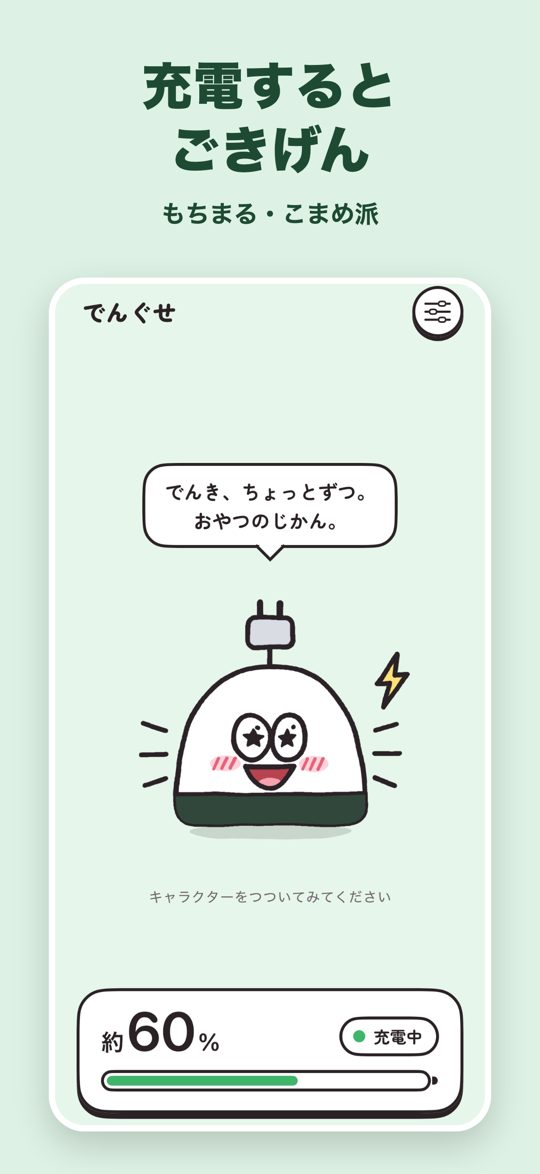
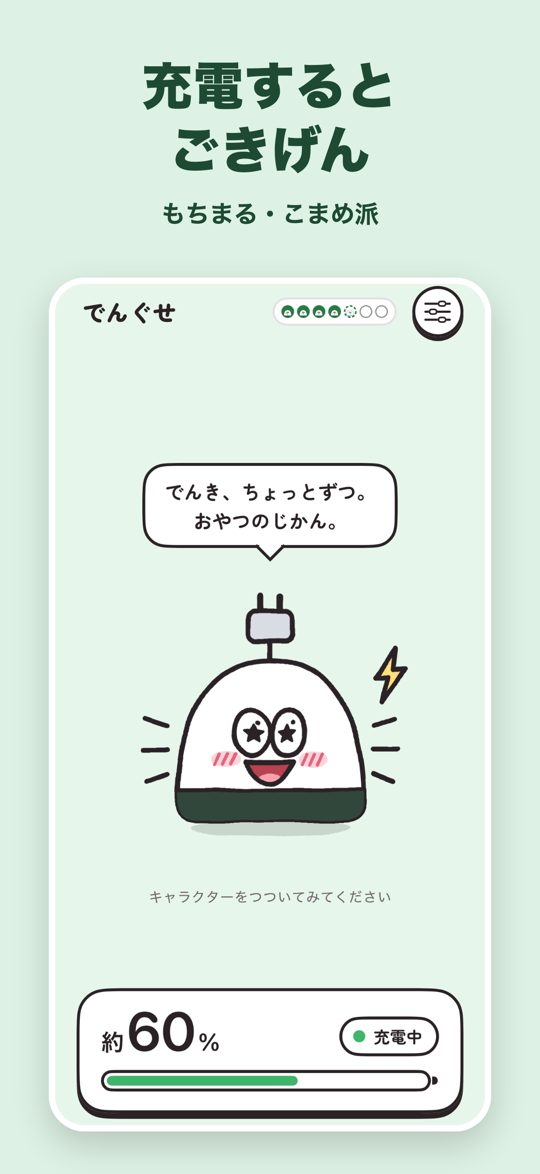
でんぐせのページを版 1.4 の内容に更新（今週のスタンプ）
紹介・サポート・プライバシーポリシーの本文と、紹介ページの画像を差し替え。
プライバシーポリシーの改定日は 2026年11月17日。

Changed region(s): [[0.2667, 0.4906, 0.7704, 0.7053], [0.5037, 0.2453, 0.7407, 0.276]]

diff --git a/docs/denguse/support.html b/docs/denguse/support.html
@@ -15,6 +15,20 @@
 <h1>でんぐせ サポート</h1>
 <p class="lead">でんぐせ（旧名 ChargeFace）は、電池の残量と充電の状態でキャラクターの表情が変わり、充電のくせで性格と見た目が変わるアプリです。</p>
 
+<h2>「今週のスタンプ」とは何ですか</h2>
+<p>バージョン 1.4 から、ウィジェット・通知・アプリの画面に、今週の 7 マス（月曜から日曜）が出るようになりました。電池を守れた日に、キャラクターのスタンプがつきます。決まりは次のとおりで、アプリの画面の上部の 7 マスを押すと開く「今週のスタンプ」の画面でも確かめられます。</p>
+<ul>
+<li>×：残量が、アプリの設定の「残量が20%を下回ったとき」（数字は設定した値）の残量を下回ってから 180 分、充電しないと、その日のマスが × になります。夜の 23 時から朝の 7 時までは数えません。通知の残量を上げたときは、上げた時刻から 180 分を数えます。</li>
+<li>△：昼間（7 時から 23 時まで）に、100% のまま 6 時間つないでいると、その日のマスが △ になります。充電の上限（80% など）を設定している間は、つきません。</li>
+<li>取り消し：× と △ は、ついた日の翌日の 24 時まで、週に 1 回だけ、「今週のスタンプ」の画面のボタンで取り消せます。取り消した日は、スタンプになります。</li>
+<li>王冠：月曜から日曜まで 7 マスそろうと、次の月曜の朝 7 時以降に、キャラクターが 8 時間、王冠をかぶります。月曜のうちにアプリを開くと、確実にかぶります。</li>
+</ul>
+<p>月曜には、7 マスが空に戻ります。使い始めた日より前のマスは、小さな点になり、数えません（使い始めた週は、7 マスそろいません）。ウィジェットと通知に出る「×まで90分（22:00）」は、× がつくまでの残り時間と、期限の時刻です。</p>
+
+<h2>充電したのに「？」や × が出るとき</h2>
+<p>iOS では、アプリが動いていない間に充電を知る仕組みがありません。そのため、期限を過ぎても、アプリかウィジェットが次に動くまでは、その日のマスが「？」（確認中）になります。次に動いたときに、充電中か、残量が 10% 以上増えていれば、スタンプのままです。× がつくのは、期限を過ぎたあとも充電されていないと確かめられたときだけです。アプリを開くと、すぐに確かめます。</p>
+<p>充電の跡が記録に残らなかったとき（短い時間だけ充電したときなど）は、充電したのに × がつくことがあります。そのときは、「今週のスタンプ」の画面で取り消せます（週に 1 回）。</p>
+
 <h2>キャラクターの見た目が変わったのはなぜですか</h2>
 <p>バージョン 1.3 から、充電のくせと充電の回数で、キャラクターの見た目が変わるようになりました。変わったことを知らせる表示はありません。見た目の変化は、アプリの画面・ウィジェット・通知の絵に出ます。</p>
 <p>性格が決まると、キャラクターが小物を身に着けます。性格が変わると、小物も替わります。性格と小物の組み合わせは、次のとおりです。</p>
@@ -34,10 +48,10 @@
 <p>バージョン 1.2 で、充電のくせでキャラクターの性格が変わる仕組みを加えたためです。名前の「でんぐせ」は、電池とくせを合わせた言葉です。中身は同じアプリで、設定やキャラクターはそのまま引き継がれます。</p>
 
 <h2>ウィジェットに残量の数字が出なくなったのはなぜですか</h2>
-<p>iOS がアプリに伝える残量は 5% 単位です。また、ウィジェットは遅れて更新されます。そのため、ウィジェットの数字が、ステータスバーの値とずれて見えることがありました。そこで、バージョン 1.2 から、ウィジェットには残量の数字を出さず、キャラクターの表情や、せりふ・ひとこと（どれが出るかは、ウィジェットの大きさによって異なります）で電池のようすを伝えるようにしました。残量の数字は、アプリの画面で見られます（5% 単位のため、「約85%」のように表示します）。残量低下の通知にも出ることがあります。最も正確な値は、ステータスバーで確かめられます。</p>
+<p>iOS がアプリに伝える残量は 5% 単位です。また、ウィジェットは遅れて更新されます。そのため、ウィジェットの数字が、ステータスバーの値とずれて見えることがありました。そこで、バージョン 1.2 から、ウィジェットには残量の数字を出さず、キャラクターの表情や、せりふ・ひとこと（どれが出るかは、ウィジェットの大きさによって異なります）で電池のようすを伝えるようにしました。残量の数字は、アプリの画面で見られます（5% 単位のため、「約85%」のように表示します）。残量低下の通知にも出ることがあります。最も正確な値は、ステータスバーで確かめられます。バージョン 1.4 のウィジェットに出る数字は、× がつくまでの残り時間（分）と期限の時刻、今週のスタンプの数です。電池の残量ではありません。</p>
 
 <h2>ウィジェットの表情がすぐに変わらないとき</h2>
-<p>iOS では、アプリが動いていない間に電池の変化を受け取る仕組みがありません。ウィジェットは、iOS がウィジェットを更新するときに電池の残量を読み直します。更新の回数は iOS が制限しているため、表情が追いつくまで通常 1 時間ほどかかり、それより遅れることもあります。アプリを開くと、すぐに最新の状態になります。</p>
+<p>iOS では、アプリが動いていない間に電池の変化を受け取る仕組みがありません。ウィジェットは、iOS がウィジェットを更新するときに電池の残量を読み直します。更新の回数は iOS が制限しているため、表情が追いつくまで通常 1 時間ほどかかり、それより遅れることもあります。アプリを開くと、すぐに最新の状態になります。バージョン 1.4 の残り時間の数字は、iOS 18 以降では 1 分ごとに減ります。iOS 17 では、ウィジェットが更新されたときの値のままです。</p>
 
 <h2>性格が決まらないとき（小物が付かないとき）</h2>
 <p>性格は、直近 14 日のうち 3 日分の充電の記録がそろったあと、次にアプリを開いたときなどに決まります。それまでは、キャラクターに小物が付きません。充電の記録は、アプリが動いたときと、ウィジェットが更新されるときに取ります。ホーム画面かロック画面にウィジェットを置いておくと、記録を取る機会が増えます。</p>
@@ -47,8 +61,9 @@
 <p>残量低下の通知は、アプリが読み取る残量が設定の値を下回ったとき（20% なら「約15%」のとき）に出します。そのため、通知が届くのは、ステータスバーの値が設定の値を少し下回ってからになることがあります。</p>
 
 <h2>通知が遅れて届くのはなぜですか</h2>
-<p>iOS では、アプリが動いていない間に電池の変化を受け取る仕組みがありません。そのため、アプリは、iOS がアプリにときどき与える実行の機会にだけ、通知を出すかどうかを判定します。この機会には、バックグラウンド更新と、iPhone が電源につながっている間だけ動く処理があります。判定の対象は、充電開始・満充電・残量低下の通知と、念押しの通知（残量低下のあとに最大 3 回届く通知）です。機会がいつ来るかは iOS が決めるため、通知は数十分から数時間遅れて届くことがあります。</p>
-<p>夜（23 時〜翌朝 5 時）に遅れて届く充電開始・満充電の通知と、夜に届く念押しの通知は、音もバナーも出さず、通知センターにだけ入ります。</p>
+<p>iOS では、アプリが動いていない間に電池の変化を受け取る仕組みがありません。そのため、アプリは、iOS がアプリにときどき与える実行の機会にだけ、通知を出すかどうかを判定します。この機会には、バックグラウンド更新と、iPhone が電源につながっている間だけ動く処理があります。判定の対象は、残量低下の通知と、念押しの通知（残量低下のあとに届く通知。バージョン 1.4 では最大 2 回、バージョン 1.3 までは最大 3 回）、今週のスタンプの結果の通知（バージョン 1.3 までは、充電開始・満充電の通知）です。機会がいつ来るかは iOS が決めるため、通知は数十分から数時間遅れて届くことがあります。</p>
+<p>バージョン 1.4 の念押しの通知は、残量低下の通知の 30 分後と 90 分後に届きます。残量低下の通知のあとにアプリを開いていないときは、90 分後の代わりに、期限の 30 分前に届きます。</p>
+<p>バージョン 1.4 では、夜の 23 時から朝の 7 時までは、× がつくまでの時間を数えず、念押しの通知と結果の通知を届けません（残量低下の最初の通知は、夜でも届きます）。結果の通知は、朝になってから届きます。バージョン 1.3 までは、夜（23 時〜翌朝 5 時）に遅れて届く充電開始・満充電の通知と、夜に届く念押しの通知は、音もバナーも出さず、通知センターにだけ入ります。</p>
 <p>アプリが充電の開始を知るのも、次に動いたときです。そのため、充電を始めたあとに、念押しの通知が届くことがあります。残量低下の通知を長押しして出る「充電しました」（バージョン 1.2 までは「充電した」）を押すと、残りの念押しの通知を止められます。</p>
 
 <h2 id="low">残量低下の通知が届かないとき</h2>
@@ -59,9 +74,15 @@
 <li>「Appのバックグラウンド更新」が制限されている：スクリーンタイムの制限や、iPhone の管理（学校・会社など）で、切り替えられないことがあります。制限を設定した人や、iPhone を管理している人にご確認ください。</li>
 </ul>
 
-<h2>充電開始・満充電の通知が届かないとき</h2>
-<p>設定 App で「でんぐせ」の通知が許可されていることと、アプリの設定で「充電を開始したとき」（バージョン 1.2 までは「充電を始めたとき」）と「満充電になったとき」がオンになっていることをご確認ください。アプリは、この 2 つの通知を出すかどうかを、iOS がアプリにときどき与える実行の機会に判定します。そのため、通知が数十分から数時間遅れて届くことがあります。その機会が来る前に充電器を外すと、届きません。「Appのバックグラウンド更新」がオフの間と、低電力モードの間は、その機会がほぼ無くなるため、ほとんど届きません（直し方は、上の<a href="#low">「残量低下の通知が届かないとき」</a>と同じです）。</p>
-<p>充電の上限（80% など）を設定しているときは、100% にならないため、そのままでは満充電の通知が届きません。バージョン 1.3 から、アプリの設定の「通知」にある「満充電とみなす残量」を、充電の上限と同じ値に合わせると、上限に達したときに満充電の通知が届きます。</p>
+<h2>充電開始・満充電の通知が届かなくなったのはなぜですか</h2>
+<p>バージョン 1.4 で、充電を始めるたびの通知と、満充電になるたびの通知をやめ、次の 2 つに置き換えました。アプリの設定の項目の名前も変わりました。</p>
+<ul>
+<li>「猶予中に充電したとき」（バージョン 1.3 までは「充電を開始したとき」）：× がつくまでの猶予の間に充電したときに、間に合ったことを知らせます。</li>
+<li>「満充電のまま放置したとき」（バージョン 1.3 までは「満充電になったとき」）：100% のまま 5 時間つないでいるときに △ の予告を、6 時間たって △ がついたときにそのことを知らせます。</li>
+</ul>
+<p>この 2 つの通知も、iOS がアプリにときどき与える実行の機会に判定するため、数十分から数時間遅れて届くことがあります。「Appのバックグラウンド更新」がオフの間と、低電力モードの間は、その機会がほぼ無くなるため、ほとんど届きません（直し方は、上の<a href="#low">「残量低下の通知が届かないとき」</a>と同じです）。</p>
+<p>バージョン 1.3 までは、アプリの設定で「充電を開始したとき」（バージョン 1.2 までは「充電を始めたとき」）と「満充電になったとき」がオンのときに、充電開始・満充電の通知が届きます。実行の機会が来る前に充電器を外すと、届きません。</p>
+<p>充電の上限（80% など）を設定しているときは、アプリの設定の「通知」にある「満充電とみなす残量」を、充電の上限と同じ値に合わせると、上限に達したときに満充電の表情になります（バージョン 1.3 では、満充電の通知も届きます）。</p>
 
 <h2>集中モードや時刻指定要約で通知が遅れるとき</h2>
 <p>集中モードの間や、時刻指定要約を使っているときは、通知が遅れて届くことがあります。集中モードの間も受け取りたいときは、設定 App の「集中モード」で、「でんぐせ」を、通知を許可する App に加えてください。時刻指定要約を使っていて、通知を要約にまとめずにすぐ受け取りたいときは、設定 App の「通知」→「時刻指定要約」で「でんぐせ」をオフにしてください。</p>

diff --git a/docs/denguse/index.html b/docs/denguse/index.html
@@ -4,7 +4,7 @@
 <meta charset="utf-8">
 <meta name="viewport" content="width=device-width, initial-scale=1">
 <title>でんぐせ - 性格が変わるバッテリーウィジェット</title>
-<meta name="description" content="でんぐせ（旧名 ChargeFace）は、iPhone の電池の残量と充電の状態でキャラクターの表情が変わり、充電のくせで性格と見た目も変わるアプリです。ホーム画面・ロック画面・スタンバイのウィジェットと、満充電・残量低下のお知らせ（iOS の仕組み上、遅れることがあります）に対応しています。無料です。">
+<meta name="description" content="でんぐせ（旧名 ChargeFace）は、iPhone の電池の残量と充電の状態でキャラクターの表情が変わり、充電のくせで性格と見た目も変わるアプリです。ホーム画面・ロック画面・スタンバイのウィジェットと、残量低下のお知らせ（iOS の仕組み上、遅れることがあります）に、今週のスタンプと × がつくまでの残り時間を出します。無料です。">
 <link rel="canonical" href="https://hitorino-hito.github.io/denguse/">
 <meta name="apple-itunes-app" content="app-id=6824164964">
 <meta property="og:type" content="website">
@@ -15,7 +15,7 @@
 <meta property="og:image" content="https://hitorino-hito.github.io/denguse/img/og.png">
 <meta property="og:image:width" content="1200">
 <meta property="og:image:height" content="630">
-<meta property="og:image:alt" content="でんぐせのアイコン・名前・「性格が変わる バッテリーウィジェット」の言葉の横に、「充電のくせで性格が変わる」「ホーム画面に置ける」「充電を重ねると年季が入る」の 3 枚の画面を並べた画像">
+<meta property="og:image:alt" content="でんぐせのアイコン・名前・「性格が変わる バッテリーウィジェット」の言葉の横に、「充電のくせで性格が変わる」「今週の 7 マスを守ろう」「充電を重ねると年季が入る」の 3 枚の画面を並べた画像">
 <meta property="og:locale" content="ja_JP">
 <meta name="twitter:card" content="summary_large_image">
 <link rel="stylesheet" href="style.css">
@@ -112,19 +112,19 @@
 <div class="wrap">
 <section class="hero">
 <h1>性格が変わる、バッテリーウィジェット</h1>
-<p class="lead">でんぐせ（電池＋くせ。旧名 ChargeFace）は、iPhone の電池の残量と充電の状態に合わせて、キャラクターの表情が変わるアプリです。残量が減るとしょんぼり、充電するとごきげん。充電のしかたのくせで、キャラクターの性格と見た目も変わります。ウィジェットをホーム画面やロック画面に置けば、充電のし忘れに気づけます。ウィジェットは、残量を数字ではなく、キャラクターの表情や、せりふ・ひとこと（どれが出るかは、ウィジェットの大きさによって異なります）で伝えます。</p>
+<p class="lead">でんぐせ（電池＋くせ。旧名 ChargeFace）は、iPhone の電池の残量と充電の状態に合わせて、キャラクターの表情が変わるアプリです。残量が減るとしょんぼり、充電するとごきげん。充電のしかたのくせで、キャラクターの性格と見た目も変わります。ウィジェットをホーム画面やロック画面に置けば、充電のし忘れに気づけます。ウィジェットは、残量の数字の代わりに、キャラクターの表情と、今週のスタンプ、× がつくまでの残り時間を出します。</p>
 <a class="store-button" href="https://apps.apple.com/jp/app/id6824164964">App Store で無料ダウンロード</a>
 <p class="note">対応：iPhone（iOS 17.0 以降）／日本語のみ</p>
 </section>
 
 <ul class="gallery" role="list" tabindex="0" aria-label="アプリの画面（8 枚）">
 <li><img src="img/01-habit.jpg" width="540" height="1174" alt="充電のくせで性格が変わる。満充電でつなぎがちなら「ためこみ派」に。性格が「ためこみ派」のでんちくんが、予備の電池を付けたベルトを着けているメイン画面" loading="lazy"></li>
-<li><img src="img/02-home.jpg" width="540" height="1174" alt="ホーム画面に置ける。数字ではなく、表情とせりふで伝える。でんちくんの小・中の 2 種類のウィジェット" loading="lazy"></li>
+<li><img src="img/02-home.jpg" width="540" height="1174" alt="今週の 7 マスを守ろう。電池を守れた日に、スタンプがつく。でんちくんの小・中の 2 種類のウィジェット" loading="lazy"></li>
 <li><img src="img/03-aged.jpg" width="540" height="1174" alt="充電を重ねると年季が入る。性格は小物に、年季はひびや傷に表れる。性格が「バランス派」のもちまるが、頭に桜の花を付け、体にひびが入っているメイン画面" loading="lazy"></li>
 <li><img src="img/04-low.jpg" width="540" height="1174" alt="残量が減るとしょんぼり。性格が「ギリギリ派」のコンセねこが、はちまきを締め、残量が少ないときにひげを落としているメイン画面" loading="lazy"></li>
 <li><img src="img/05-charging.jpg" width="540" height="1174" alt="充電するとごきげん。性格が「こまめ派」のもちまるが、のりを巻き、充電中に喜んでいるメイン画面" loading="lazy"></li>
-<li><img src="img/06-lock.jpg" width="540" height="1174" alt="ロック画面にも置ける。時刻の上・丸型・長方形の 3 種類。スタンバイにも対応" loading="lazy"></li>
-<li><img src="img/07-notify.jpg" width="540" height="1174" alt="残量低下をお知らせ（通知）。充電開始・満充電にも対応。iOS の仕組み上、遅れて届く場合あり" loading="lazy"></li>
+<li><img src="img/06-lock.jpg" width="540" height="1174" alt="ロック画面にも置ける。時刻の上・丸型・長方形の 3 種類。スタンバイにも対応。今週のスタンプの数と、輪にした 7 マス" loading="lazy"></li>
+<li><img src="img/07-notify.jpg" width="540" height="1174" alt="× まで、あと何分。充電すれば、× を防げる。iOS の仕組み上、遅れて届く場合あり。題が「×まで180分」と期限の時刻の通知" loading="lazy"></li>
 <li><img src="img/08-choose.jpg" width="540" height="1174" alt="3 体から相棒を選べる。何%で知らせるかも設定できる。アプリの設定の画面" loading="lazy"></li>
 </ul>
 <p class="scroll-hint" aria-hidden="true">横にスワイプすると、ほかの画面も見られます</p>
@@ -150,22 +150,33 @@
 <li><img src="img/neko.png" width="240" height="240" alt=""><p><strong>コンセねこ</strong>：口の悪いねこ。残量が 20% を切ると、ひげが床に落ちます。</p></li>
 </ul>
 
+<h2>今週のスタンプ</h2>
+<p>電池を守れた日ごとに、今週の 7 マス（月曜から日曜）に、キャラクターのスタンプがつきます。</p>
+<ul class="features">
+<li>残量が、設定した残量を下回ってから 180 分、充電しないと、その日のマスが × になります。夜の 23 時から朝の 7 時までは数えません。</li>
+<li>昼間に 100% のまま 6 時間つないでいると、△ になります。</li>
+<li>× と △ は、充電の記録から確かめられたときだけつきます。ついた日の翌日の 24 時まで、週に 1 回、取り消せます。</li>
+<li>7 マスそろうと、次の月曜に、キャラクターが 8 時間、王冠をかぶります。</li>
+<li>月曜には、7 マスが空に戻ります。</li>
+</ul>
+
 <h2>できること</h2>
 <ul class="features">
-<li>ホーム画面（小・中）、ロック画面（時刻の上・丸型・長方形）、スタンバイのウィジェットで、残量を数字ではなく、キャラクターの表情や、せりふ・ひとことで伝えます。数字を読まなくても、ひと目で充電の頃合いが分かります。せりふが出るのはホーム画面の中サイズ、ひとことが出るのはロック画面の「時刻の上」と「長方形」です。性格の小物と体の変化は、ウィジェットの絵にも表れます。残量の数字は、iPhone のステータスバーとアプリの画面で見られます。残量低下のお知らせ（通知）にも出ることがあります。</li>
-<li>充電の開始、満充電、残量の低下（知らせる残量は 5〜50% で設定）を、キャラクターの絵が付いた通知でお知らせします。文面は、キャラクターと性格ごとに何種類もあります。ショートカット App などの設定は要りません。お知らせは、iOS の仕組み上、数十分から数時間遅れることがあります。</li>
-<li>アプリの画面でキャラクターをつつくと、場面ごとに違うせりふで反応します。</li>
+<li>ホーム画面（小・中）、ロック画面（時刻の上・丸型・長方形）、スタンバイのウィジェットに、今週の 7 マスと、キャラクターの表情を出します。残量が減ると、× がつくまでの残り時間を数字で出し、キャラクターが少しずつ近づいてきます。充電すると、元に戻ります。背景の色は、時刻で変わります。性格の小物と体の変化は、ウィジェットの絵にも表れます。残量の数字は、iPhone のステータスバーとアプリの画面で見られます。</li>
+<li>残量の低下（知らせる残量は 5〜50% で設定）と、今週のスタンプの結果を、キャラクターの絵が付いた通知でお知らせします。題には「×まで90分（22:00）」のように、残り時間と期限の時刻を出します。残量が下回ったとき、30 分後、90 分後（アプリを開いていないときは、期限の 30 分前）にお知らせします。念押しのお知らせ（30 分後から）は、夜の 23 時から朝の 7 時までは届けません。猶予の間に充電したとき、× や △ がついたとき、満充電のまま 5 時間たったとき、7 マスそろったときにも、お知らせします。ショートカット App などの設定は要りません。お知らせは、iOS の仕組み上、数十分から数時間遅れることがあります。</li>
+<li>アプリの画面でキャラクターをつつくと、場面ごとに違うせりふで反応します。画面の上の 7 マスを押すと、今週のスタンプと決まりを確かめられ、× や △ を取り消せます。</li>
 </ul>
 
 <h2>ご利用にあたって</h2>
 <ul class="features">
 <li>無料でお使いいただけます。アカウントの登録は不要です。電池の残量と充電の記録は、端末の中だけで扱い、外部に送信しません。充電の記録は、アプリを削除すると消えます。</li>
 <li>性格と見た目の変化は、アプリとウィジェットが記録した充電のようすから推定したものです。電池の劣化の度合いを示すものではありません。</li>
-<li>キャラクターがときどき広告を見てほしいとお願いしますが、「見送る」で断れます。広告は、「広告を見る」などのボタンを押したときだけ流れる動画です。</li>
+<li>キャラクターがときどき広告を見てほしいとお願いしますが、「見送る」で断れます。広告は、「広告を見る」などのボタンを押したときだけ流れる動画です。見ると、キャラクターが 8 時間、王冠をかぶります。</li>
 <li>開発を支援する、任意のアプリ内課金があります。購入しても、機能は変わりません。</li>
 <li>お知らせと同じく、ウィジェットの更新も、iOS の仕組み上、遅れることがあります（通常は 1 時間ほどで追いつきます）。アプリを開くと、すぐに最新の状態になります。</li>
 <li>低電力モードの間や、設定 App の「Appのバックグラウンド更新」がオフのときは、お知らせがほとんど届きません。当てはまるときは、アプリの設定に直し方を表示します。</li>
-<li>充電の上限（80% など）を設定しているときは、アプリの設定の「満充電とみなす残量」を同じ値に合わせると、上限に達したときに満充電のお知らせが届きます。充電器をつないですぐに外すと、充電を始めたときのお知らせが届かないことがあります。詳しくは<a href="support.html">サポート</a>をご覧ください。</li>
+<li>充電の上限（80% など）を設定しているときは、アプリの設定の「満充電とみなす残量」を同じ値に合わせると、上限に達したときに満充電の表情になります。△ は、100% のままつないでいるときだけつきます。</li>
+<li>毎回の充電の開始と満充電のお知らせは、バージョン 1.4 で、猶予の間に充電したときと、満充電のまま放置したときのお知らせに替わりました。詳しくは<a href="support.html">サポート</a>をご覧ください。</li>
 </ul>
 
 <p class="cta"><a class="store-button" href="https://apps.apple.com/jp/app/id6824164964">App Store で無料ダウンロード</a></p>

diff --git a/docs/denguse/privacy.html b/docs/denguse/privacy.html
@@ -21,12 +21,13 @@
 <li>端末の電池の残量と充電の状態</li>
 <li>充電の記録（最大で約 2 週間分の、電池の残量・充電の状態と、その時刻）</li>
 <li>充電の記録から推定した、充電のくせ・性格・充電の回数</li>
+<li>充電の記録から決めた、週のスタンプの記録（今週と前の週の、日ごとの印と、取り消した日など。バージョン 1.4 以降）</li>
 <li>本アプリの設定（選んだキャラクター、通知の設定）と、表示の履歴（直近に表示したせりふ）</li>
 <li>評価の依頼の時期を決めるための利用の記録（キャラクターをつついた回数、前回の依頼の時期など）</li>
 <li>アプリ内課金（開発への支援）の取引の識別子</li>
 <li>端末を識別するための値（Apple が提供するベンダー識別子）</li>
 </ul>
-<p>充電の記録は、キャラクターの性格と見た目を決めるためだけに使います。本アプリ自身は、上の情報を開発者や外部に送信せず、利用者のアカウントも作りません（広告のために Google が取得する情報は、2 項のとおりです）。バージョン 1.3 以降の本アプリは、写真ライブラリを使いません。バージョン 1.2 には、「充電のくせ診断」の結果の画像を共有する機能がありました。この画像は、利用者が共有を選んだときに限り、利用者が選んだ App に渡します。画像に入るのは、キャラクターの絵（電池の状態にかかわらず同じ絵）・性格・くせの強さ・キャラクターとの仲の段階・アプリの名前だけで、電池の残量・日時・充電の回数は入りません。写真ライブラリへの追加の許可が必要になるのは、利用者が共有シートからその画像を「写真」App に保存するときだけで、写真ライブラリの読み取りはしません。この機能は、バージョン 1.3 で削除しました。</p>
+<p>充電の記録は、キャラクターの性格と見た目と、週のスタンプの印（バージョン 1.4 以降）を決めるためだけに使います。本アプリ自身は、上の情報を開発者や外部に送信せず、利用者のアカウントも作りません（広告のために Google が取得する情報は、2 項のとおりです）。バージョン 1.3 以降の本アプリは、写真ライブラリを使いません。バージョン 1.2 には、「充電のくせ診断」の結果の画像を共有する機能がありました。この画像は、利用者が共有を選んだときに限り、利用者が選んだ App に渡します。画像に入るのは、キャラクターの絵（電池の状態にかかわらず同じ絵）・性格・くせの強さ・キャラクターとの仲の段階・アプリの名前だけで、電池の残量・日時・充電の回数は入りません。写真ライブラリへの追加の許可が必要になるのは、利用者が共有シートからその画像を「写真」App に保存するときだけで、写真ライブラリの読み取りはしません。この機能は、バージョン 1.3 で削除しました。</p>
 
 <h2>2. 広告について</h2>
 <p>本アプリは、利用者が広告を見ることを選んだとき（メイン画面の「広告を見る」か、設定の「広告を見て王冠を贈る」を押したとき。バージョン 1.2 までは「広告を見て王冠をあげる」）に、Google の広告配信サービス（Google Mobile Ads SDK）を通じて広告を表示します。また、広告をすぐに表示できるよう、本アプリを開いている間に広告を前もって読み込みます。そのため、広告を見ないときも、本アプリは Google と通信します。</p>
@@ -46,7 +47,7 @@
 <p>本アプリは、広告のための Google Mobile Ads SDK（2 項）のほかに、利用状況の分析やクラッシュの収集を行う外部のツールを使っていません。設定 App で「App デベロッパと共有」を有効にしている利用者については、開発者が Apple を通じて、クラッシュなどの診断情報を、個人を特定しない形で受け取ることがあります。</p>
 
 <h2>5. 情報の保存と削除</h2>
-<p>本アプリが端末の中に保存する情報（1 項の情報）は、本アプリを削除すると端末から消えます。約 2 週間より古い充電の記録は使いません。古い記録は、本アプリかウィジェットが記録を書くときに消します。バージョン 1.2 では、くせ診断の「くせの記録を消す」でも消せます（このボタンは、バージョン 1.3 で、くせ診断とともに削除しました）。充電の記録は、iPhone のバックアップに含めません。推定した性格と充電の回数は、ほかの設定と同じくバックアップに含まれますが、別の iPhone に復元したときは消します。</p>
+<p>本アプリが端末の中に保存する情報（1 項の情報）は、本アプリを削除すると端末から消えます。約 2 週間より古い充電の記録は使いません。古い記録は、本アプリかウィジェットが記録を書くときに消します。バージョン 1.2 では、くせ診断の「くせの記録を消す」でも消せます（このボタンは、バージョン 1.3 で、くせ診断とともに削除しました）。充電の記録は、iPhone のバックアップに含めません。推定した性格と充電の回数、週のスタンプの記録は、ほかの設定と同じくバックアップに含まれますが、別の iPhone に復元したときは消します。</p>
 <p>開発者が受け取る利用者の情報は、4 項の診断情報と、お問い合わせと請求のフォームで受け取った内容（8 項）だけです。Google が取得した情報の保存と削除は、Google のプライバシーポリシーに従います。利用者は、Google が案内する方法で、その情報の削除を依頼できます。</p>
 
 <h2>6. 同意の取り消し</h2>
@@ -62,7 +63,7 @@
 <h2>9. 改定</h2>
 <p>本ポリシーを改定したときは、このページで公表します。</p>
 
-<p class="date">制定日：2026年10月18日<br>改定日：2026年11月12日</p>
+<p class="date">制定日：2026年10月18日<br>改定日：2026年11月17日</p>
 </div>
 </main>
 <footer class="site-footer">
